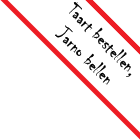
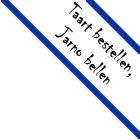
style aangepast en nice gemaakt

Changed region(s): [[0.0, 0.0, 1.0, 1.0], [0.6, 0.0, 1.0, 0.4]]

diff --git a/css/style.css b/css/style.css
@@ -11,14 +11,14 @@
 
 body
 {
-	background-color:A61000;
+	background-color:#FFFFFF;
 }
 
 #header
 {
 	position:relative;
 	height:16%;
-	border:1px solid white;
+	border:solid 1px #0433a0;
 }
 
 #logo
@@ -47,14 +47,14 @@ body
 {
 	position:relative;
 	height:70%;
-	border:1px solid white;
+	border:solid 1px #0433a0;
 }
 
 #footer
 {
 	position:relative;
 	height:2%;
-	border:1px solid white;
+	border:solid 1px #0433a0;
 }
 
 a

diff --git a/css/menustyle.css b/css/menustyle.css
@@ -4,10 +4,10 @@
 	width:24.8%;
 	height:100%;
 	float:left;
-	border:1px solid white;
 	text-align:center;
 	margin-bottom:1%;
 	margin-top:1%;
+	border:solid 1px #0433a0;
 }
 
 #menuhomepage:hover,#menuinformatie:hover,#menuwebshop:hover,#menuinloggen:hover
@@ -15,6 +15,7 @@
 	height:108.8%;
 	margin-top:9px;
 	font-size:30;
+	border:1px solid #2355ca;
 }
 
 #menuhomepage
